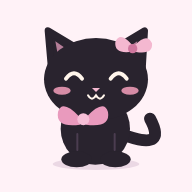
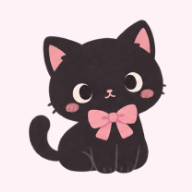
Use uploaded black cat illustrations throughout the PWA

Changed region(s): [[0.125, 0.0938, 0.875, 0.9062], [0.375, 0.6875, 0.4062, 0.7812]]

diff --git a/app.js b/app.js
@@ -2,7 +2,7 @@ import {fields,labels,makeQuiz,normalizeState} from './core.js';
 const main=document.querySelector('#main'), key='kuroneko-english-v1';
 let verbs=[],state,quiz=[],index=0,answers=[],answered=false,route='home',audioContext,bgm=null,bgmMode='',toastTimer;
 const esc=s=>String(s).replace(/[&<>"']/g,c=>({'&':'&amp;','<':'&lt;','>':'&gt;','"':'&quot;',"'":'&#39;'}[c]));
-const cat=(cls='mascot')=>`<img class="${cls}" src="./assets/cat.svg" alt="ピンクのリボンをつけた黒猫">`;
+const cat=(cls='mascot',pose='welcome')=>`<span class="cat-art ${cls} cat-${pose}" role="img" aria-label="ピンクのリボンをつけた黒猫"></span>`;
 const sound=(text,label=text)=>`<button class="sound" data-speak="${esc(text)}" aria-label="${esc(label)}の発音を聞く">🔊</button>`;
 function toast(message){const el=document.querySelector('#toast');el.textContent=message;el.classList.add('visible');clearTimeout(toastTimer);toastTimer=setTimeout(()=>el.classList.remove('visible'),3500);}
 function save(){try{localStorage.setItem(key,JSON.stringify(state));}catch{toast('保存できませんでした。端末の空き容量やブラウザ設定を確認してください。');}}
@@ -15,10 +15,10 @@ function detail(v){return `<article class="card word-card"><div class="row"><spa
 function setScreen(name,html){route=name;document.body.classList.toggle('quiz-mode',name==='quiz');main.innerHTML=html;document.querySelectorAll('nav a').forEach(a=>a.classList.toggle('active',a.hash===`#${name}`));window.scrollTo(0,0);main.focus({preventScroll:true});}
 function home(){playBgm('normal');setScreen('home',`<section class="hero"><span class="eyebrow">LITTLE STEPS, BIG DREAMS</span><h1>今日も、黒猫と<br>英語をひとくち。</h1><p>1日10問。動詞の三変化を、少しずつ。</p><div class="mascot-stage"><span class="spark one">✧</span>${cat()}<span class="spark two">♡</span></div><div class="bubble">まちがえても大丈夫。いっしょに覚えよう！</div></section><section class="card"><div class="row"><span class="progress-label">100語中 <b>${state.learned.length}</b> 語覚えた</span><span aria-hidden="true">🐾</span></div><progress max="100" value="${state.learned.length}" aria-label="習得した単語数"></progress><p class="hint" style="margin:5px 0 17px">${state.learned.length===100?'全部覚えたね！単語帳でいつでも復習できるよ。':`あと${100-state.learned.length}語。あなたのペースで大丈夫。`}</p><button class="primary" data-action="start">${state.learned.length===100?'全100語のお祝いへ ✧':'10問チャレンジをはじめる →'}<small>${state.learned.length===100?'おつかれさま！':`未習得からランダムに${Math.min(10,100-state.learned.length)}問 · 約3分`}</small></button></section><div class="home-links"><a href="#words"><span>▤</span>単語帳をひらく <small>→</small></a><a href="#history"><span>♡</span>苦手をふりかえる <small>→</small></a></div><p class="footnote">覚えた単語は、クイズをおやすみ。<br>いつでも単語帳で会えるよ。</p><details class="hint"><summary>iPhoneのホーム画面に追加するには</summary><p>Safariの共有ボタンから「ホーム画面に追加」を選んでください。一度読み込むと、オフラインでも学習できます。進捗はこの端末とブラウザに保存されます。</p></details>`);}
 function start(){quiz=makeQuiz(verbs,state.learned);index=0;answers=[];answered=false;if(!quiz.length){celebrate();return;}playBgm('normal');showQuestion();}
-function showQuestion(){answered=false;const q=quiz[index];setScreen('quiz',`<section class="quiz"><div class="quiz-top"><span>QUESTION <b>${String(index+1).padStart(2,'0')}</b> / ${quiz.length}</span><button class="quit" data-action="quit">やめる ×</button></div><progress max="${quiz.length}" value="${index}" aria-label="クイズの進行状況"></progress><div class="card question"><p class="target"><b class="${q.field}">${labels[q.field]}</b> はどれ？</p><h1 lang="en">${esc(q.verb.base)}</h1><p class="meaning">${esc(q.verb.meaning)}</p>${q.subject?`<p class="quiz-subject">${q.subject}</p>`:''}<div class="pronunciation">${sound(q.verb.base,q.verb.base)}<span class="quiz-reading"> ${esc(q.verb.reading.base)}</span></div></div><div class="choices">${q.choices.map((c,i)=>`<button class="choice" data-answer="${esc(c)}"><span>${'ABCD'[i]}</span><b lang="en">${esc(c)}</b></button>`).join('')}</div><div class="quiz-cat">${cat()}<p>あせらず、ひとつ選んでね。<br>まちがいも、覚えるチャンス！</p></div></section>`);}
-function answer(value){if(answered||route!=='quiz')return;answered=true;const q=quiz[index],correct=value===q.answer;answers.push({id:q.verb.id,correct});state.history.push({id:q.verb.id,field:q.field,correct,at:Date.now()});state.history=state.history.slice(-3000);save();sfx(correct?'correct':'wrong');setScreen('feedback',`<section class="feedback"><div class="feedback-title" aria-live="polite">${cat()}<h1 class="${correct?'correct':''}">${correct?'正解！その調子だにゃ ♡':'だいじょうぶ。一緒に覚えよう。'}</h1><p>${labels[q.field]}の正解は <b lang="en">${esc(q.answer)}</b>${q.subject?'（主語は I）':''}</p>${!correct?`<p class="hint">${esc(value)} を選んだね。${q.verb.type==='regular'?'規則動詞は -ed が基本。語尾のつづりにも注目してね。':'この動詞は不規則に変化するよ。三つの形をセットで覚えよう。'}</p>`:''}</div>${detail(q.verb)}<button class="primary" data-action="next">${index+1===quiz.length?'結果を見る ✧':'次の問題へ →'}</button></section>`);}
-function result(){const score=answers.filter(a=>a.correct).length,perfect=score===quiz.length;playBgm(perfect?'perfect':'result');setScreen('result',`<section class="result"><span class="eyebrow">${perfect?'PERFECT!':'NICE LITTLE STEPS'}</span><div class="mascot-stage">${perfect?'<span class="crown">👑</span>':''}${cat()}<span class="spark two">✧</span></div><h1>${perfect?'満点！すごいにゃ！':'今日も一歩、進んだね。'}</h1><div class="score">${score}<small> / ${quiz.length} 問正解</small></div><p class="hint">${perfect?'ぜんぶ正解。あなたに、はなまるを！':'まちがえた単語は、次に覚えれば大丈夫。'}</p><button class="primary" data-action="start">もう一度チャレンジ →</button><a class="secondary" href="#home">ホームに戻る</a></section>${answers.some(a=>!a.correct)?`<section class="card" style="margin-top:25px"><h2>もう一度、会っておこう ♡</h2>${answers.filter(a=>!a.correct).map(a=>{const v=verbs.find(v=>v.id===a.id);return `<a class="review-word" href="#word/${v.id}"><strong>${esc(v.base)}</strong><span class="hint">${esc(v.meaning)} →</span></a>`;}).join('')}</section>`:''}`);if(perfect)confetti();}
-function celebrate(){playBgm('perfect');setScreen('result',`<section class="result"><span class="eyebrow">ALL 100 VERBS MASTERED</span><div class="mascot-stage"><span class="crown">👑</span>${cat()}</div><h1>100語、ぜんぶ覚えたね！</h1><p>ちいさな一歩が、大きな自信に。<br>黒猫から、ありがとうのハグ ♡</p><a class="primary" href="#words">単語帳で復習する →</a><p class="hint">もう一度出題したい単語は、<br>単語帳で「覚えた」を解除してね。</p></section>`);confetti();}
+function showQuestion(){answered=false;const q=quiz[index];setScreen('quiz',`<section class="quiz"><div class="quiz-top"><span>QUESTION <b>${String(index+1).padStart(2,'0')}</b> / ${quiz.length}</span><button class="quit" data-action="quit">やめる ×</button></div><progress max="${quiz.length}" value="${index}" aria-label="クイズの進行状況"></progress><div class="card question"><p class="target"><b class="${q.field}">${labels[q.field]}</b> はどれ？</p><h1 lang="en">${esc(q.verb.base)}</h1><p class="meaning">${esc(q.verb.meaning)}</p>${q.subject?`<p class="quiz-subject">${q.subject}</p>`:''}<div class="pronunciation">${sound(q.verb.base,q.verb.base)}<span class="quiz-reading"> ${esc(q.verb.reading.base)}</span></div></div><div class="choices">${q.choices.map((c,i)=>`<button class="choice" data-answer="${esc(c)}"><span>${'ABCD'[i]}</span><b lang="en">${esc(c)}</b></button>`).join('')}</div><div class="quiz-cat">${cat('mascot','thinking')}<p>あせらず、ひとつ選んでね。<br>まちがいも、覚えるチャンス！</p></div></section>`);}
+function answer(value){if(answered||route!=='quiz')return;answered=true;const q=quiz[index],correct=value===q.answer;answers.push({id:q.verb.id,correct});state.history.push({id:q.verb.id,field:q.field,correct,at:Date.now()});state.history=state.history.slice(-3000);save();sfx(correct?'correct':'wrong');setScreen('feedback',`<section class="feedback"><div class="feedback-title" aria-live="polite">${cat('mascot',correct?'happy':'heart')}<h1 class="${correct?'correct':''}">${correct?'正解！その調子だにゃ ♡':'だいじょうぶ。一緒に覚えよう。'}</h1><p>${labels[q.field]}の正解は <b lang="en">${esc(q.answer)}</b>${q.subject?'（主語は I）':''}</p>${!correct?`<p class="hint">${esc(value)} を選んだね。${q.verb.type==='regular'?'規則動詞は -ed が基本。語尾のつづりにも注目してね。':'この動詞は不規則に変化するよ。三つの形をセットで覚えよう。'}</p>`:''}</div>${detail(q.verb)}<button class="primary" data-action="next">${index+1===quiz.length?'結果を見る ✧':'次の問題へ →'}</button></section>`);}
+function result(){const score=answers.filter(a=>a.correct).length,perfect=score===quiz.length;playBgm(perfect?'perfect':'result');setScreen('result',`<section class="result"><span class="eyebrow">${perfect?'PERFECT!':'NICE LITTLE STEPS'}</span><div class="mascot-stage">${perfect?'<span class="crown">👑</span>':''}${cat('mascot',perfect?'celebrate':'heart')}<span class="spark two">✧</span></div><h1>${perfect?'満点！すごいにゃ！':'今日も一歩、進んだね。'}</h1><div class="score">${score}<small> / ${quiz.length} 問正解</small></div><p class="hint">${perfect?'ぜんぶ正解。あなたに、はなまるを！':'まちがえた単語は、次に覚えれば大丈夫。'}</p><button class="primary" data-action="start">もう一度チャレンジ →</button><a class="secondary" href="#home">ホームに戻る</a></section>${answers.some(a=>!a.correct)?`<section class="card" style="margin-top:25px"><h2>もう一度、会っておこう ♡</h2>${answers.filter(a=>!a.correct).map(a=>{const v=verbs.find(v=>v.id===a.id);return `<a class="review-word" href="#word/${v.id}"><strong>${esc(v.base)}</strong><span class="hint">${esc(v.meaning)} →</span></a>`;}).join('')}</section>`:''}`);if(perfect)confetti();}
+function celebrate(){playBgm('perfect');setScreen('result',`<section class="result"><span class="eyebrow">ALL 100 VERBS MASTERED</span><div class="mascot-stage"><span class="crown">👑</span>${cat('mascot','celebrate')}</div><h1>100語、ぜんぶ覚えたね！</h1><p>ちいさな一歩が、大きな自信に。<br>黒猫から、ありがとうのハグ ♡</p><a class="primary" href="#words">単語帳で復習する →</a><p class="hint">もう一度出題したい単語は、<br>単語帳で「覚えた」を解除してね。</p></section>`);confetti();}
 function words(){setScreen('words',`<section class="page-title"><span class="eyebrow">YOUR LITTLE WORD BOOK</span><h1>100語の単語帳</h1><p class="hint">覚えた単語も、ずっとここに。</p></section><div class="filters"><input type="search" id="search" placeholder="英単語・日本語でさがす" aria-label="英単語・日本語で検索"><select id="type" aria-label="動詞の分類"><option value="">すべての動詞</option><option value="irregular">不規則動詞</option><option value="regular">規則動詞</option></select><select id="level" aria-label="難易度"><option value="">すべての難易度</option>${[...new Set(verbs.map(v=>v.level))].sort().map(l=>`<option value="${l}">レベル ${l}</option>`).join('')}</select><select id="status" aria-label="習得状態"><option value="">すべての習得状態</option><option value="learned">覚えた</option><option value="new">まだ覚えていない</option></select></div><p id="count" class="hint" role="status"></p><div id="word-list"></div>`);filterWords();}
 function filterWords(){const search=document.querySelector('#search').value.trim().toLowerCase(),type=document.querySelector('#type').value,level=document.querySelector('#level').value,status=document.querySelector('#status').value;const list=verbs.filter(v=>(!search||[v.base,v.past,v.participle,v.meaning].some(x=>x.toLowerCase().includes(search)))&&(!type||v.type===type)&&(!level||v.level===Number(level))&&(!status||learned(v)===(status==='learned')));document.querySelector('#count').textContent=`${list.length}語の単語`;document.querySelector('#word-list').innerHTML=list.length?list.map(v=>`<article class="card word-card"><div class="row"><a class="word-name" href="#word/${v.id}" lang="en">${esc(v.base)}</a><span class="badge">${v.type==='irregular'?'不規則':'規則'} · Lv.${v.level}</span></div><p class="meaning">${esc(v.meaning)}</p>${forms(v)}<a class="details" href="#word/${v.id}">例文・くわしい解説を見る →</a>${learnButton(v)}</article>`).join(''):'<p class="empty">見つからなかったにゃ。<br>検索や絞り込みを変えてみてね。</p>';}
 function history(){const stats=verbs.map(v=>{const records=state.history.filter(h=>h.id===v.id);return {v,total:records.length,wrong:records.filter(h=>!h.correct).length};}).filter(s=>s.wrong).sort((a,b)=>b.wrong/b.total-a.wrong/a.total||b.wrong-a.wrong);setScreen('history',`<section class="page-title"><span class="eyebrow">A LITTLE LOOK BACK</span><h1>ふりかえり</h1><p class="hint">まちがいは、伸びしろ。ゆっくり覚えよう。</p></section><section class="card"><div class="row"><span>これまでの回答</span><b>${state.history.length}問</b></div><p class="hint" style="margin-bottom:0">正解 ${state.history.filter(h=>h.correct).length}問 · 覚えた ${state.learned.length}語<br>直近3,000問までの履歴を保存しています。</p></section><h2>ちょっと苦手な単語</h2>${stats.length?stats.map(s=>`<article class="card word-card"><a class="row" href="#word/${s.v.id}"><strong class="word-name">${esc(s.v.base)}</strong><span class="hint">${s.wrong} / ${s.total} 回まちがい →</span></a><p class="meaning">${esc(s.v.meaning)}</p>${learnButton(s.v)}</article>`).join(''):`<div class="empty">${cat()}<p>まだ苦手な単語はないよ。<br>10問チャレンジから始めてみよう！</p></div>`}`);}

diff --git a/index.html b/index.html
@@ -1,2 +1,2 @@
 <!doctype html>
-<html lang="ja"><head><meta charset="utf-8"><meta name="viewport" content="width=device-width,initial-scale=1,viewport-fit=cover"><meta name="theme-color" content="#FFF2F7"><meta name="apple-mobile-web-app-capable" content="yes"><meta name="apple-mobile-web-app-status-bar-style" content="default"><meta name="apple-mobile-web-app-title" content="黒猫英語"><meta name="description" content="ピンクのリボンの黒猫と、毎日10問。英語の動詞100語を楽しく学ぶ無料の学習アプリ。"><title>黒猫イングリッシュ</title><link rel="manifest" href="./manifest.webmanifest"><link rel="apple-touch-icon" href="./assets/icon-192.png"><link rel="icon" href="./assets/cat.svg" type="image/svg+xml"><link rel="stylesheet" href="./style.css"></head><body><div class="app"><header><a class="brand" href="#home"><img src="./assets/cat.svg" alt=""><span>黒猫イングリッシュ<small>ちいさな一歩、毎日いっしょに。</small></span></a><button class="icon-button" id="settings" aria-label="音の設定">⚙</button></header><main id="main" tabindex="-1"><p class="loading">黒猫がお迎えの準備をしています…</p></main><nav aria-label="メインメニュー"><a href="#home">⌂<span>ホーム</span></a><a href="#words">▤<span>単語帳</span></a><a href="#history">♡<span>ふりかえり</span></a></nav></div><dialog id="settings-dialog"><form method="dialog"><button class="close" aria-label="閉じる">×</button></form><h2>音の設定</h2><p>あなたの心地よい音で。</p><label class="setting">BGM <input type="checkbox" id="bgm-toggle"></label><label class="setting">効果音 <input type="checkbox" id="sfx-toggle"></label><label class="setting">音量 <input type="range" id="volume" min="0" max="1" step="0.05"></label><p class="hint">BGMは楽曲が追加されると再生されます。発音は端末の英語音声を使います。オフラインでの音声は端末によって異なります。</p></dialog><div id="toast" role="status" aria-live="polite"></div><script type="module" src="./app.js"></script></body></html>
+<html lang="ja"><head><meta charset="utf-8"><meta name="viewport" content="width=device-width,initial-scale=1,viewport-fit=cover"><meta name="theme-color" content="#FFF2F7"><meta name="apple-mobile-web-app-capable" content="yes"><meta name="apple-mobile-web-app-status-bar-style" content="default"><meta name="apple-mobile-web-app-title" content="黒猫英語"><meta name="description" content="ピンクのリボンの黒猫と、毎日10問。英語の動詞100語を楽しく学ぶ無料の学習アプリ。"><title>黒猫イングリッシュ</title><link rel="manifest" href="./manifest.webmanifest"><link rel="apple-touch-icon" href="./assets/icon-192.png"><link rel="icon" href="./assets/icon-192.png" type="image/png"><link rel="stylesheet" href="./style.css"></head><body><div class="app"><header><a class="brand" href="#home"><span class="cat-art brand-cat cat-welcome" aria-hidden="true"></span><span>黒猫イングリッシュ<small>ちいさな一歩、毎日いっしょに。</small></span></a><button class="icon-button" id="settings" aria-label="音の設定">⚙</button></header><main id="main" tabindex="-1"><p class="loading">黒猫がお迎えの準備をしています…</p></main><nav aria-label="メインメニュー"><a href="#home">⌂<span>ホーム</span></a><a href="#words">▤<span>単語帳</span></a><a href="#history">♡<span>ふりかえり</span></a></nav></div><dialog id="settings-dialog"><form method="dialog"><button class="close" aria-label="閉じる">×</button></form><h2>音の設定</h2><p>あなたの心地よい音で。</p><label class="setting">BGM <input type="checkbox" id="bgm-toggle"></label><label class="setting">効果音 <input type="checkbox" id="sfx-toggle"></label><label class="setting">音量 <input type="range" id="volume" min="0" max="1" step="0.05"></label><p class="hint">BGMは楽曲が追加されると再生されます。発音は端末の英語音声を使います。オフラインでの音声は端末によって異なります。</p></dialog><div id="toast" role="status" aria-live="polite"></div><script type="module" src="./app.js"></script></body></html>

diff --git a/style.css b/style.css
@@ -30,3 +30,18 @@ main:focus{outline:none}.target .past{color:var(--rose)}.target .participle{colo
  .quiz-cat img{height:40px}
  .quiz{padding-bottom:5px}
 }
+/* Original uploaded artwork, shown as individual portraits without repainting. */
+.cat-art{display:inline-block;flex-shrink:0;background-image:url('./assets/kuroneko-illustrations.png');background-repeat:no-repeat;background-size:400% 256%;background-position:0 0;border-radius:24px;vertical-align:middle;width:187px;height:195px}
+.cat-welcome{background-position:0 0}
+.cat-thinking{background-position:100% 0}
+.cat-happy{background-position:33.333333% 0}
+.cat-heart{background-position:66.666667% 0}
+.cat-celebrate{background-size:400% 330.322581%;background-position:100% 56.022409%}
+.brand-cat{width:42px;height:44px;border-radius:12px}
+.feedback-title .cat-art{width:96px;height:100px;border-radius:18px}
+.quiz-cat .cat-art{width:59px;height:62px;border-radius:12px}
+.empty .cat-art{width:153px;height:160px}
+@media(max-height:700px){.quiz-cat .cat-art{width:38px;height:40px;border-radius:9px}}
+.cat-welcome{background-size:438.857143% 256%}
+.mascot.cat-welcome{width:171px}
+.empty .mascot.cat-welcome{width:140px}

diff --git a/sw.js b/sw.js
@@ -1,6 +1,6 @@
-const VERSION='kuroneko-v2';
+const VERSION='kuroneko-v3';
 const ROOT=new URL('./',self.location.href);
-const FILES=['./','./index.html','./style.css','./app.js','./core.js','./verbs.json','./manifest.webmanifest','./assets/audio/tracks.json','./assets/audio/normal.mp3','./assets/audio/perfect.mp3','./assets/audio/result.mp3','./assets/cat.svg','./assets/icon-192.png','./assets/icon-512.png','./assets/icon-maskable.png'];
+const FILES=['./','./index.html','./style.css','./app.js','./core.js','./verbs.json','./manifest.webmanifest','./assets/audio/tracks.json','./assets/audio/normal.mp3','./assets/audio/perfect.mp3','./assets/audio/result.mp3','./assets/kuroneko-illustrations.png','./assets/icon-192.png','./assets/icon-512.png','./assets/icon-maskable.png'];
 self.addEventListener('install',event=>event.waitUntil(caches.open(VERSION).then(cache=>cache.addAll(FILES)).then(()=>self.skipWaiting())));
 self.addEventListener('activate',event=>event.waitUntil(caches.keys().then(keys=>Promise.all(keys.filter(key=>key.startsWith('kuroneko-')&&key!==VERSION).map(key=>caches.delete(key)))).then(()=>self.clients.claim())));
 self.addEventListener('fetch',event=>{
